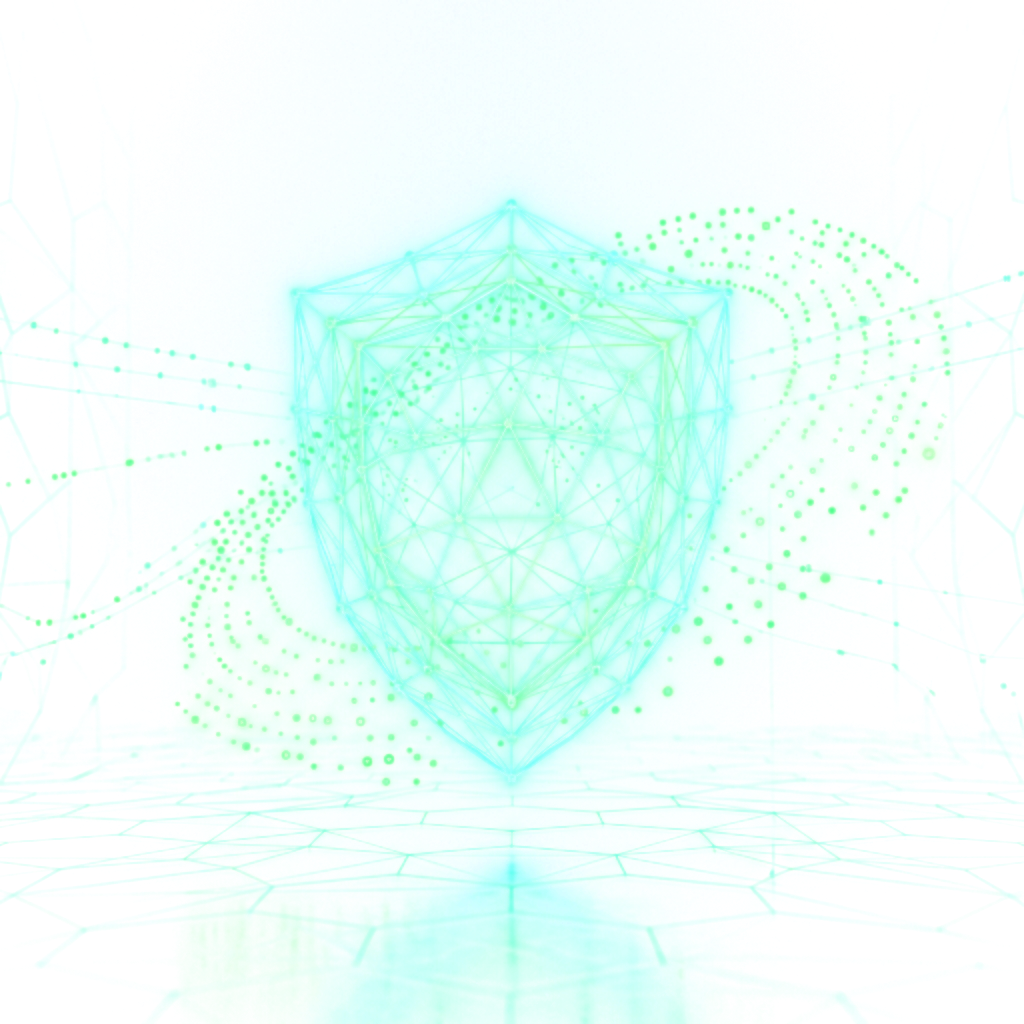
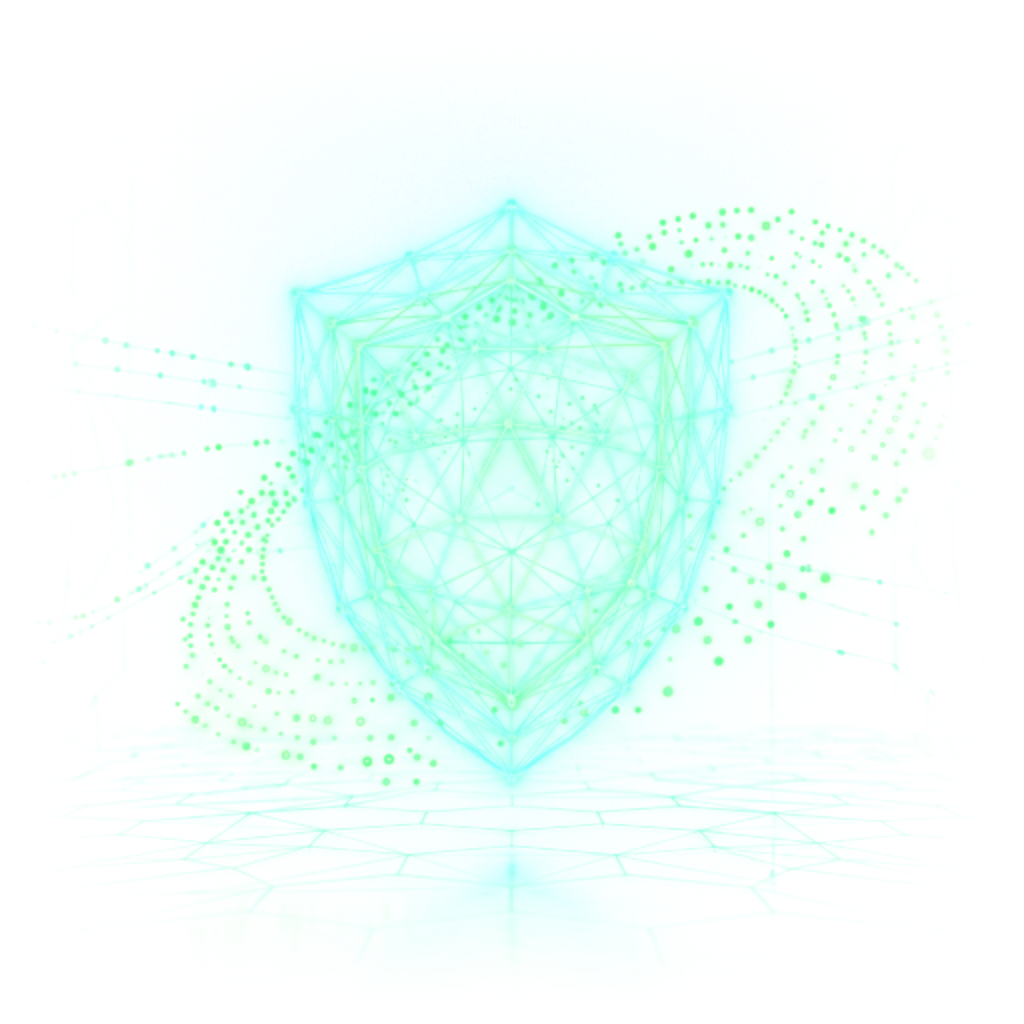
fix(hero): seamless blend cyber shield edges and add social profile links

diff --git a/src/components/Footer.tsx b/src/components/Footer.tsx
@@ -1,7 +1,7 @@
 "use client";
 
 import React from "react";
-import { ArrowUp } from "lucide-react";
+import { ArrowUp, ArrowUpRight } from "lucide-react";
 
 export default function Footer() {
   const scrollToTop = () => {
@@ -10,7 +10,7 @@ export default function Footer() {
 
   return (
     <footer className="w-full bg-neutral-950 border-t border-zinc-800">
-      <div className="max-w-[1440px] mx-auto px-6 md:px-12 lg:px-16 py-8 flex flex-col sm:flex-row items-center justify-between gap-4">
+      <div className="max-w-[1440px] mx-auto px-6 md:px-12 lg:px-16 py-8 flex flex-col md:flex-row items-center justify-between gap-6">
         {/* Left Branding */}
         <div className="flex items-center gap-4">
           <span className="text-gray-200 text-xl font-semibold font-sans tracking-tight">
@@ -19,6 +19,29 @@ export default function Footer() {
           <span className="text-neutral-500 text-[10px] font-mono tracking-wider">
             CSE STUDENT / CYBERSECURITY PORTFOLIO
           </span>
+        </div>
+
+        {/* Minimal Social Links */}
+        <div className="flex items-center gap-5 text-xs font-mono text-neutral-400">
+          <a
+            href="https://github.com/rushdv"
+            target="_blank"
+            rel="noreferrer"
+            className="hover:text-lime-300 transition flex items-center gap-1.5 group"
+          >
+            <span>GitHub</span>
+            <ArrowUpRight className="size-3 text-neutral-500 group-hover:text-lime-300 transition-transform group-hover:translate-x-0.5 group-hover:-translate-y-0.5" />
+          </a>
+          <span className="text-zinc-800">/</span>
+          <a
+            href="https://www.linkedin.com/in/rushdv/"
+            target="_blank"
+            rel="noreferrer"
+            className="hover:text-lime-300 transition flex items-center gap-1.5 group"
+          >
+            <span>LinkedIn</span>
+            <ArrowUpRight className="size-3 text-neutral-500 group-hover:text-lime-300 transition-transform group-hover:translate-x-0.5 group-hover:-translate-y-0.5" />
+          </a>
         </div>
 
         {/* Back To Top Action */}

diff --git a/src/components/ContactSection.tsx b/src/components/ContactSection.tsx
@@ -109,6 +109,29 @@ export default function ContactSection() {
               )}
             </button>
           </div>
+
+          {/* Minimal Social Profiles */}
+          <div className="flex items-center gap-5 pt-1 text-xs font-mono text-neutral-400">
+            <a
+              href="https://github.com/rushdv"
+              target="_blank"
+              rel="noreferrer"
+              className="hover:text-lime-300 transition flex items-center gap-1.5 group"
+            >
+              <span>GitHub</span>
+              <ArrowUpRight className="size-3 text-neutral-500 group-hover:text-lime-300 transition-transform group-hover:translate-x-0.5 group-hover:-translate-y-0.5" />
+            </a>
+            <span className="text-zinc-800">/</span>
+            <a
+              href="https://www.linkedin.com/in/rushdv/"
+              target="_blank"
+              rel="noreferrer"
+              className="hover:text-lime-300 transition flex items-center gap-1.5 group"
+            >
+              <span>LinkedIn</span>
+              <ArrowUpRight className="size-3 text-neutral-500 group-hover:text-lime-300 transition-transform group-hover:translate-x-0.5 group-hover:-translate-y-0.5" />
+            </a>
+          </div>
         </div>
 
         {/* Right Column: Contact Form */}

diff --git a/src/components/Navbar.tsx b/src/components/Navbar.tsx
@@ -158,6 +158,26 @@ export default function Navbar({ onOpenCv }: NavbarProps) {
               <Download className="size-3.5 text-lime-300" />
               Download CV
             </button>
+
+            <div className="pt-2 flex items-center justify-center gap-5 text-xs font-mono text-neutral-400">
+              <a
+                href="https://github.com/rushdv"
+                target="_blank"
+                rel="noreferrer"
+                className="hover:text-lime-300 transition"
+              >
+                GitHub ↗
+              </a>
+              <span className="text-zinc-800">/</span>
+              <a
+                href="https://www.linkedin.com/in/rushdv/"
+                target="_blank"
+                rel="noreferrer"
+                className="hover:text-lime-300 transition"
+              >
+                LinkedIn ↗
+              </a>
+            </div>
           </div>
         </div>
       )}
